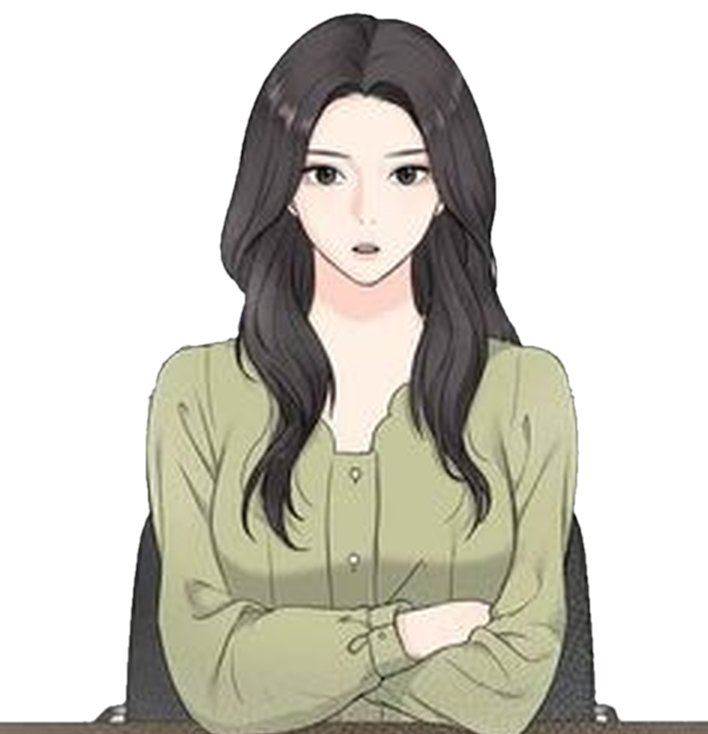
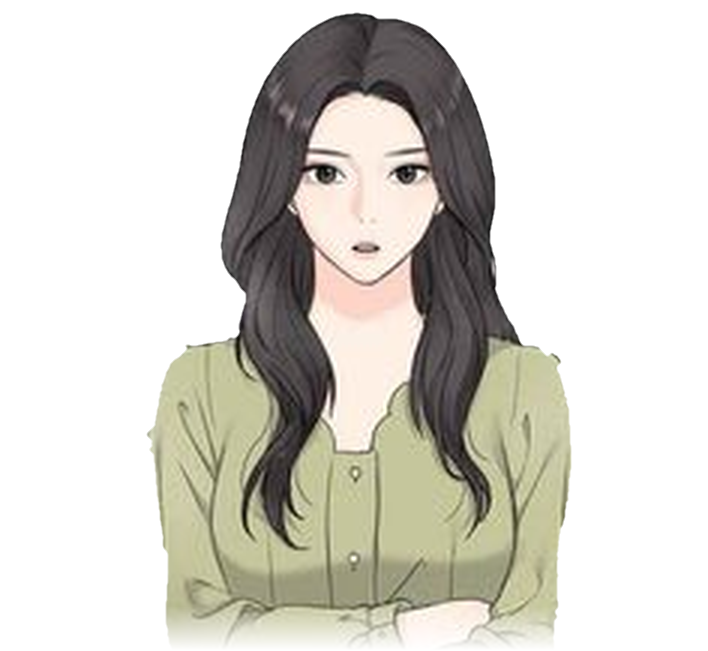
Crop host to bust, remove chair

Changed region(s): [[0.0, 0.0307, 1.0, 1.0], [0.4661, 0.0, 0.5593, 0.0307], [0.5593, 0.0307, 0.6215, 0.0614]]

diff --git a/index.html b/index.html
@@ -13,7 +13,7 @@
   <link rel="preconnect" href="https://fonts.googleapis.com">
   <link rel="preconnect" href="https://fonts.gstatic.com" crossorigin>
   <link href="https://fonts.googleapis.com/css2?family=DM+Sans:wght@400;500;700&family=Fraunces:opsz,wght@9..144,600;9..144,700&display=swap" rel="stylesheet">
-  <link rel="stylesheet" href="style.css?v=9">
+  <link rel="stylesheet" href="style.css?v=11">
 </head>
 <body>
   <a class="skip-link" href="#home">Skip to content</a>
@@ -42,10 +42,9 @@
           <div class="stage-glow" aria-hidden="true"><i></i><i></i><i></i></div>
           <div class="caption" id="caption" aria-live="polite">Press play to begin</div>
           <div class="host-figure">
-            <img src="assets/host.png" width="708" height="734" alt="AI host: a woman with long dark wavy hair in an olive blouse, seated at a desk and speaking to camera">
+            <img src="assets/host.png" width="708" height="651" alt="AI host: a woman with long dark wavy hair in an olive blouse, speaking to camera">
             <span class="mouth-overlay" aria-hidden="true"></span>
           </div>
-          <div class="desk" aria-hidden="true"></div>
           <div class="sound-wave" aria-hidden="true"><i></i><i></i><i></i><i></i><i></i><i></i><i></i><i></i><i></i></div>
           <button class="play-button" id="playButton" type="button" aria-label="Play 60-second ListenerZ introduction"><span>▶</span> Play introduction</button>
           <div class="progress" aria-hidden="true"><b id="progressBar"></b></div>
@@ -69,6 +68,6 @@
     <section class="cta" id="join"><p class="eyebrow">Join the movement</p><h2>Talk when you’re ready.<br>Be heard when it matters.</h2><a class="button button-light" href="mailto:support@listenerz.com?subject=Hello%20ListenerZ&amp;body=Hi%20ListenerZ%20team%2C%0A%0A">Get in touch</a></section>
   </main>
   <footer id="contact"><div><a class="brand" href="#home"><img src="assets/listenerz-logo.svg" alt=""><span>The ListenerZ</span></a><p>Private conversation. Human connection.</p></div><div><h3>Contact</h3><a href="mailto:support@listenerz.com">support@listenerz.com</a><a href="tel:18005478369">1-800-LISTENZ</a></div><small>© 2026 The ListenerZ. All rights reserved.</small></footer>
-  <script src="script.js?v=9"></script>
+  <script src="script.js?v=11"></script>
 </body>
 </html>

diff --git a/style.css b/style.css
@@ -85,12 +85,11 @@ nav a:hover { opacity: 1; }
 .stage-glow i:nth-child(2) { animation-delay: .8s !important; }
 .stage-glow i:nth-child(3) { animation-delay: 1.6s !important; }
 .caption { position: absolute; top: 1.1rem; left: 50%; transform: translateX(-50%); z-index: 2; max-width: 88%; text-align: center; padding: .55rem 1.3rem; border-radius: 999px; background: #ffffff1f; border: 1px solid #ffffff38; backdrop-filter: blur(10px); font-size: clamp(.95rem, 2.2vw, 1.25rem); font-weight: 500; }
-.host-figure { position: absolute; bottom: 0; left: 50%; height: 90%; aspect-ratio: 708 / 734; transform: translateX(-50%);  }
+.host-figure { position: absolute; bottom: 0; left: 50%; height: 88%; aspect-ratio: 708 / 651; transform: translateX(-50%);  }
 .host-figure img { display: block; width: 100%; height: 100%; }
-.mouth-overlay { position: absolute; left: 51.7%; top: 33.6%; width: 3.6%; height: 1.4%; margin: -.7% 0 0 -1.8%; border-radius: 50%; background: #5a2a2e; opacity: 0; transform-origin: center; }
+.mouth-overlay { position: absolute; left: 51.7%; top: 37.5%; width: 3.6%; height: 1.6%; margin: -.8% 0 0 -1.8%; border-radius: 50%; background: #5a2a2e; opacity: 0; transform-origin: center; }
 .host-stage.speaking .mouth-overlay { opacity: .9; animation: talk .24s ease-in-out infinite alternate; }
 .host-stage.speaking .host-figure { animation: sway 4s ease-in-out infinite; }
-.desk { position: absolute; left: 0; right: 0; bottom: 0; height: 9%; z-index: 1; background: linear-gradient(#0d3f73, #0a3462); border-top: 1px solid #ffffff1f; }
 @keyframes talk { from { transform: scale(.7, .5); } to { transform: scale(1.1, 2.2); } }
 .sound-wave { position: absolute; right: 6%; bottom: 17%; display: flex; gap: 4px; align-items: center; height: 60px; opacity: .35; transition: opacity .3s; }
 .host-stage.speaking .sound-wave { opacity: 1; }
